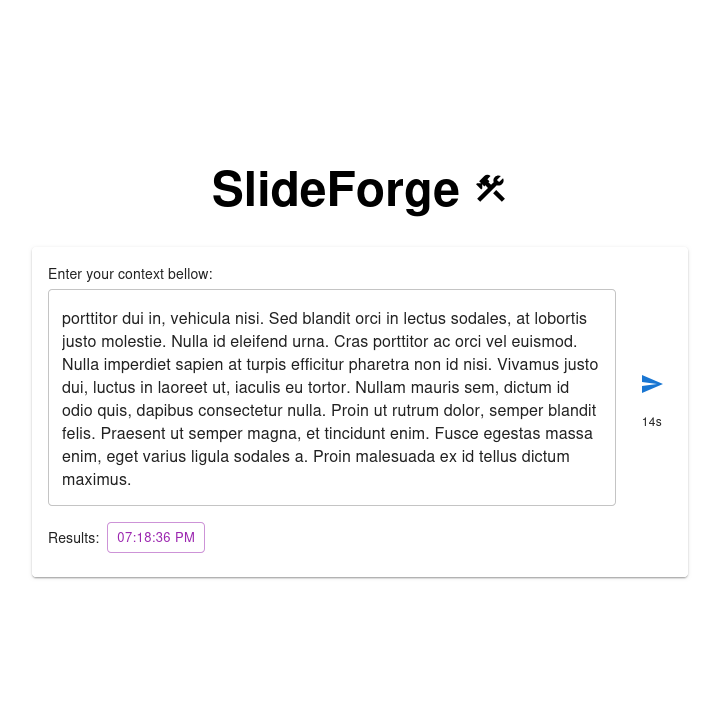
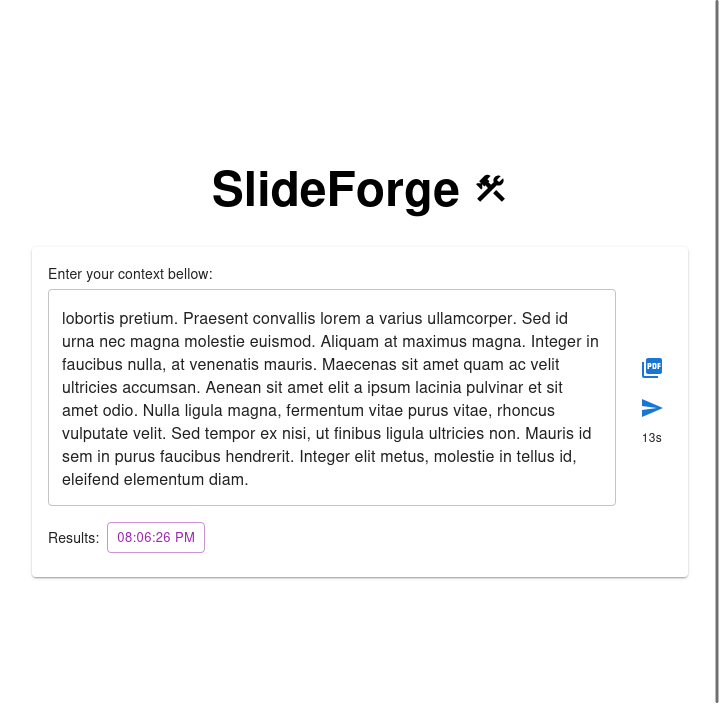
feat: extract text from pdf files

diff --git a/frontend/src/App.jsx b/frontend/src/App.jsx
@@ -9,6 +9,8 @@ import ConstructionIcon from "@mui/icons-material/Construction";
 import IconButton from "@mui/material/IconButton";
 import Alert from "@mui/material/Alert";
 import Button from "@mui/material/Button";
+import PictureAsPdfIcon from "@mui/icons-material/PictureAsPdf";
+import { extractText, getDocumentProxy } from "unpdf";
 import "./App.css";
 
 const API_HOST = import.meta.env.VITE_API_HOST || "http://localhost:3000";
@@ -20,6 +22,7 @@ function App() {
   const [files, setFiles] = useState([]);
   const [timer, setTimer] = useState(0);
   const timerRef = useRef();
+  const fileInputRef = useRef();
 
   const handleSend = async () => {
     if (!input.trim()) {
@@ -57,6 +60,25 @@ function App() {
     }
   };
 
+  const handleFileButtonClick = () => {
+    fileInputRef.current.click();
+  };
+
+  const handleFileChange = async (e) => {
+    const file = e.target.files[0];
+    if (!file) return;
+    if (file.type !== "application/pdf") {
+      alert("Only PDF files are accepted.");
+      return;
+    }
+    setLoading(true);
+    const arrayBuffer = await file.arrayBuffer();
+    const pdf = await getDocumentProxy(arrayBuffer);
+    const { text } = await extractText(pdf, { mergePages: true });
+    setInput((prev) => prev + (prev ? "\n" : "") + text.trim());
+    setLoading(false);
+  };
+
   return (
     <>
       <div
@@ -71,6 +93,13 @@ function App() {
         <Typography variant="h3" align="center" sx={{ mb: 4, fontWeight: 700 }}>
           SlideForge <ConstructionIcon fontSize="large" />
         </Typography>
+        <input
+          type="file"
+          accept="application/pdf"
+          style={{ display: "none" }}
+          ref={fileInputRef}
+          onChange={handleFileChange}
+        />
         <Container>
           {error && (
             <Alert severity="error" sx={{ mb: 2 }} onClose={() => {}}>
@@ -91,21 +120,36 @@ function App() {
                 <TextField
                   fullWidth
                   multiline
-                  minRows={1}
+                  minRows={2}
                   maxRows={8}
                   value={input}
                   onChange={(e) => setInput(e.target.value)}
                   disabled={loading}
                 />
-                <div style={{ display: "flex", alignItems: "center" }}>
+                <div
+                  style={{
+                    display: "flex",
+                    alignItems: "center",
+                    flexDirection: "column",
+                    justifyContent: "center",
+                  }}
+                >
                   <div
                     style={{
                       display: "flex",
                       alignItems: "center",
                       flexDirection: "column",
-                      gap: "0.5rem",
                     }}
                   >
+                    <IconButton
+                      variant="contained"
+                      color="primary"
+                      onClick={handleFileButtonClick}
+                      disabled={loading}
+                      loading={loading}
+                    >
+                      <PictureAsPdfIcon />
+                    </IconButton>
                     <IconButton
                       color="primary"
                       onClick={handleSend}
@@ -114,18 +158,17 @@ function App() {
                     >
                       <SendIcon />
                     </IconButton>
-                    {timer > 0 && (
-                      <Typography
-                        variant="caption"
-                        style={{ userSelect: "none" }}
-                      >
-                        {timer}s
-                      </Typography>
-                    )}
                   </div>
+                  {timer > 0 && (
+                    <Typography
+                      variant="caption"
+                      style={{ userSelect: "none" }}
+                    >
+                      {timer}s
+                    </Typography>
+                  )}
                 </div>
               </div>
-              {/* Downloaded files buttons */}
               {files.length > 0 && (
                 <div>
                   <div

diff --git a/frontend/README.md b/frontend/README.md
@@ -5,6 +5,7 @@ This is a React + Material UI web app for generating PDF files from user-provide
 ## How it works
 
 - Enter your context in the text field and click the send button.
+- You can also import a PDF file: the app will extract all text from the PDF and append it to the input field.
 - The app sends your input to the backend at `/api/v1/generate`.
 - When the backend responds success, a button appears under "Results:" for each generated file.
 - Click a result button to open the PDF in a new tab.
